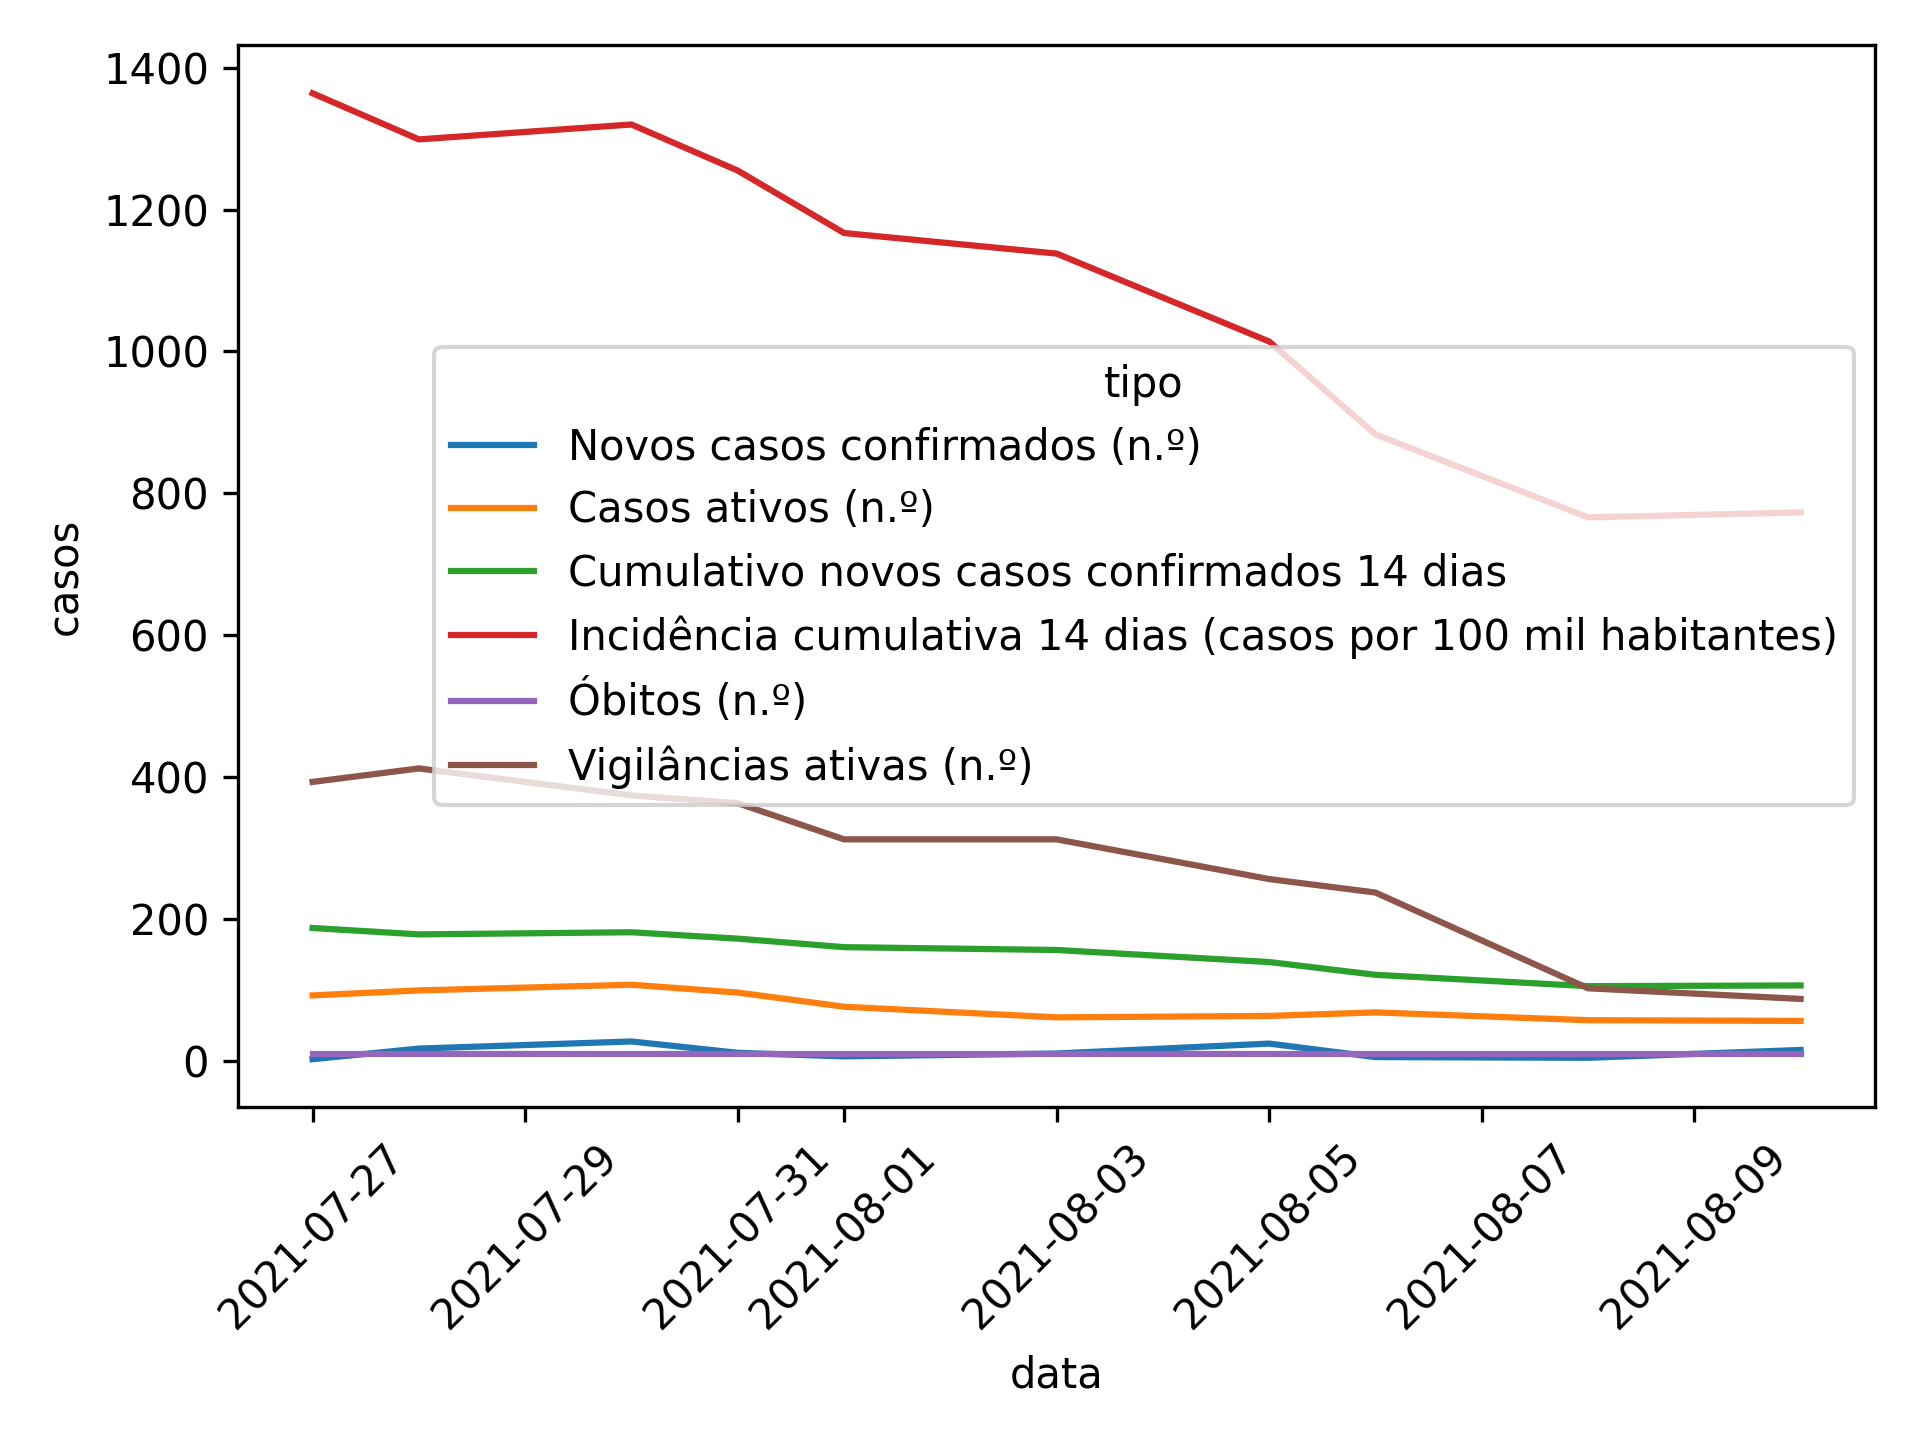
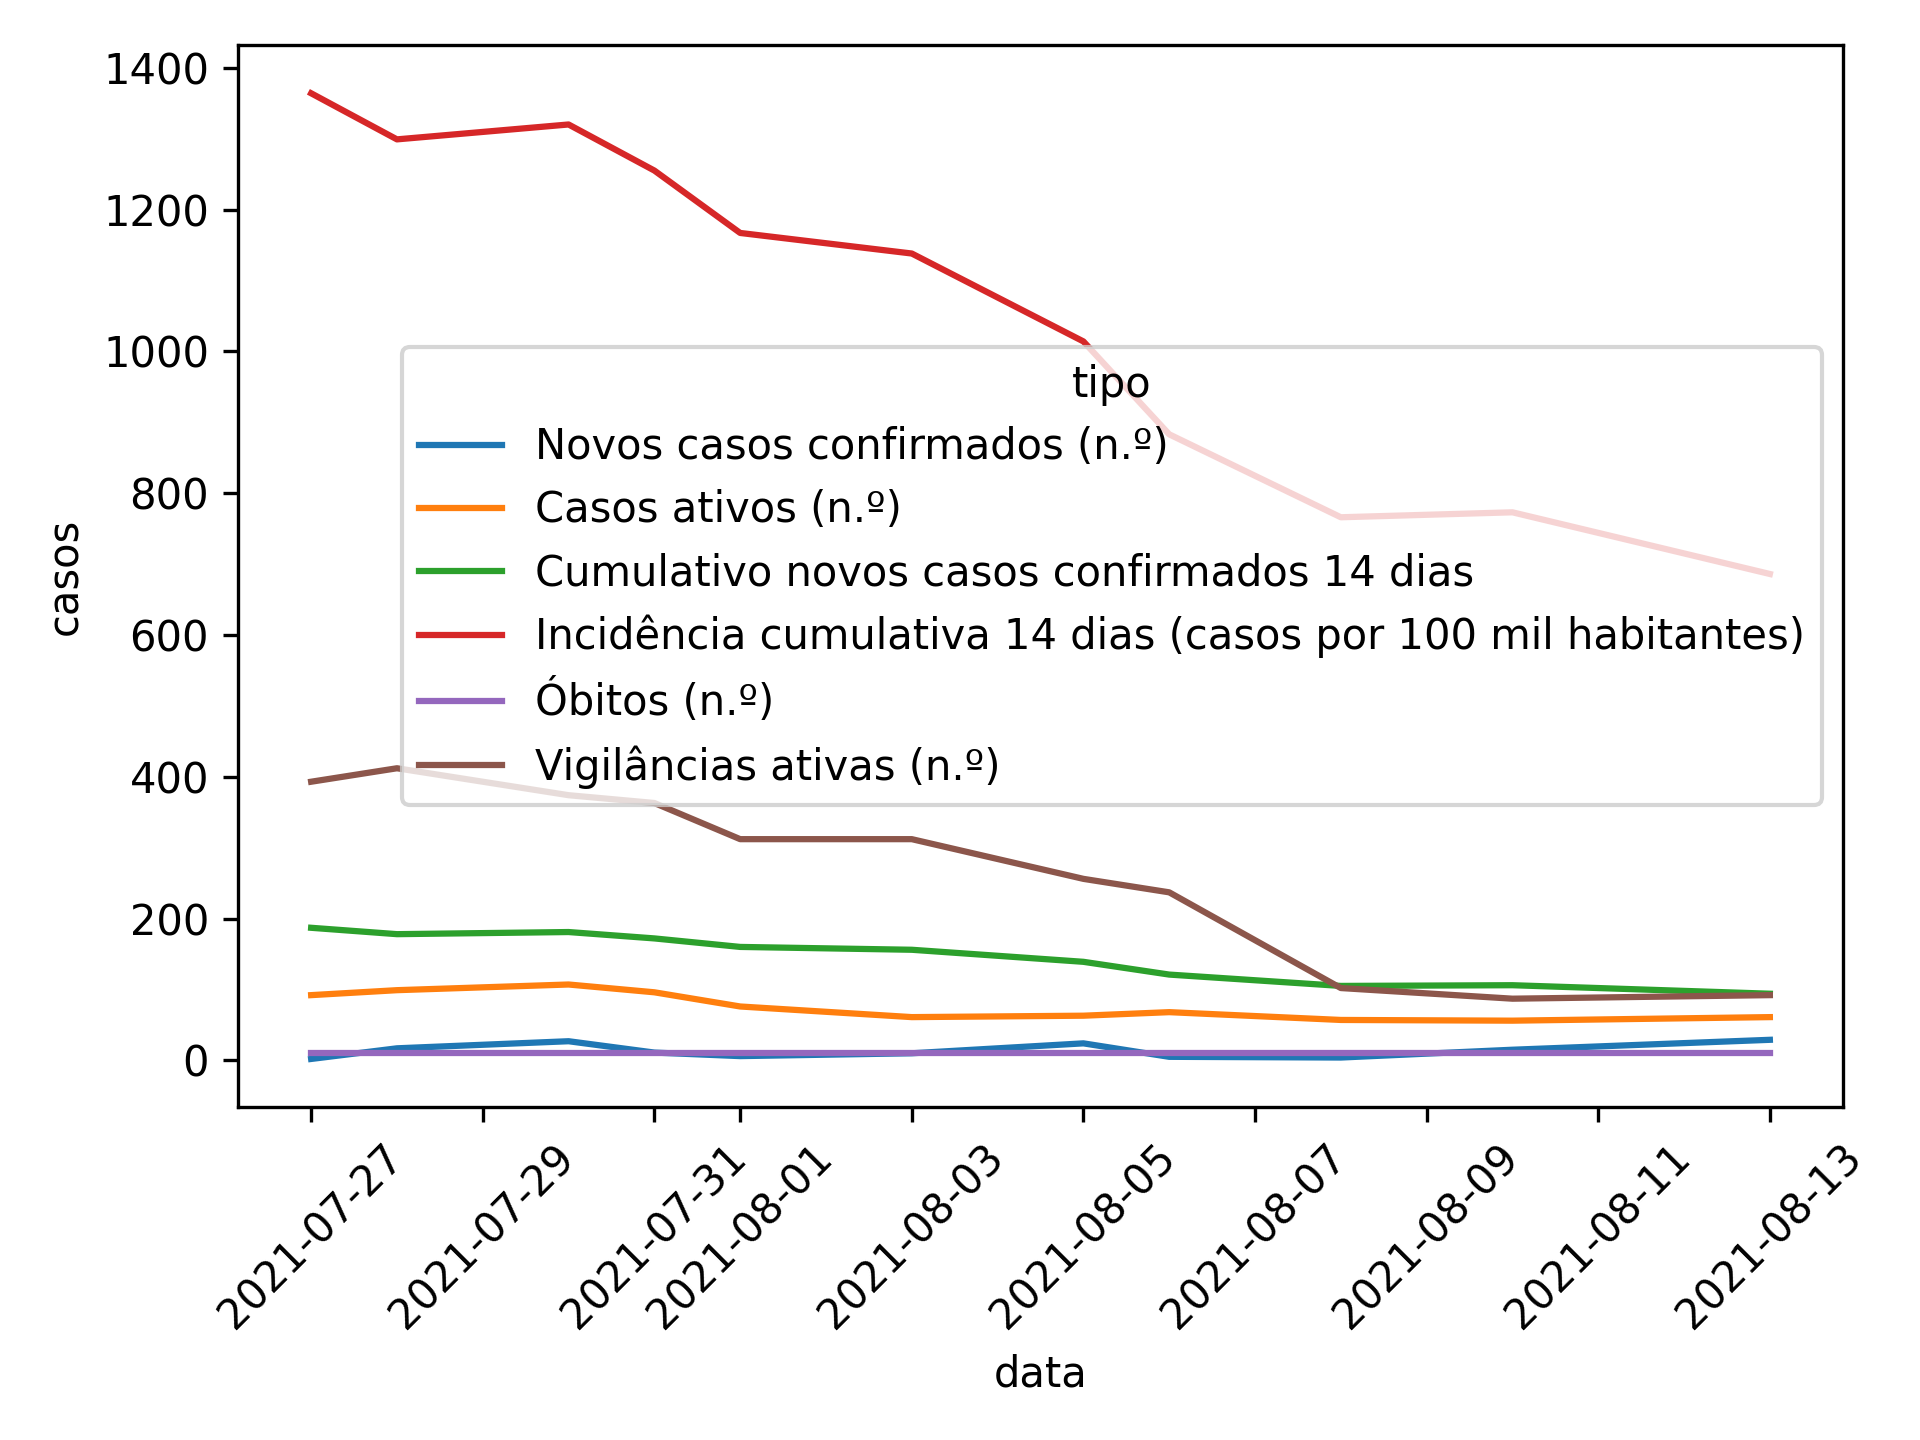
Apply automatic changes

diff --git a/README.md b/README.md
@@ -16,3 +16,4 @@
 | 06-08-2021 |                               5 |                   68 |                                          121 |                                                            883 |             10 |                        237 |
 | 08-08-2021 |                               4 |                   57 |                                          105 |                                                            766 |             10 |                        102 |
 | 10-08-2021 |                              15 |                   56 |                                          106 |                                                            773 |             10 |                         87 |
+| 13-08-2021 |                              29 |                   61 |                                           94 |                                                            686 |             10 |                         92 |
